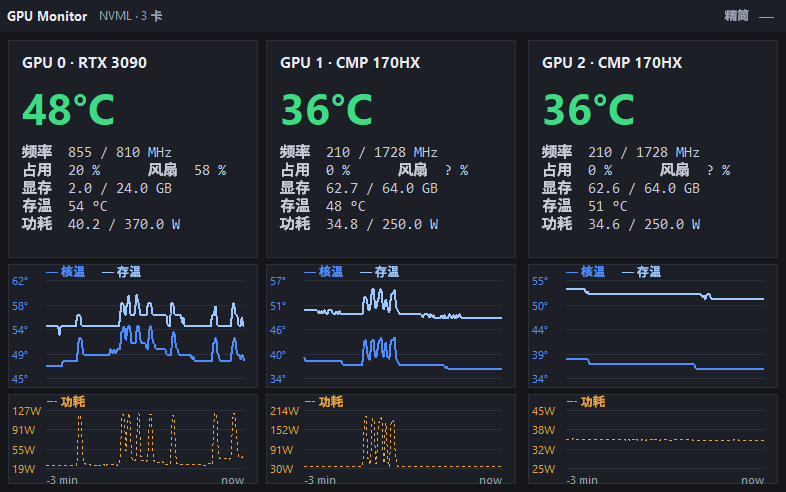
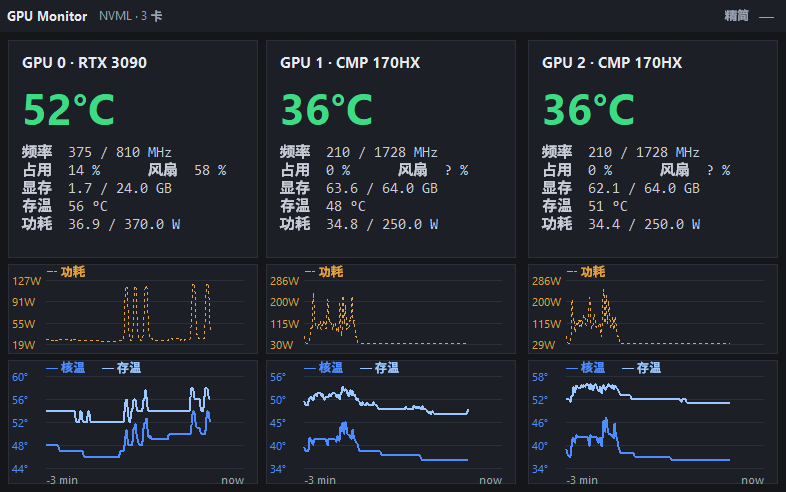
style: put the power chart above the temperature chart
Watts now lead the stack and degrees close it. Each chart keeps the height its
own content needs, so the taller one -- two series and four grid lines -- sits
at the bottom; the pair still fills the same 226px band and the window is still
492px tall.

Three places had to move together, because only the first of them is the order
itself: the pack order in build_cards, which canvas gets the time axis, and
which pad_b each one asks for. pad_b follows the position in the stack and not
the unit -- the chart that ends the pair at the bottom pays for "-3 min"/"now"
with GRAPH_PAD_B, the one above it reads straight down to it with
GRAPH_PAD_B_TOP. Getting that wrong would have left the time axis stranded
between the two charts.

_chart_frame also stops pretending it knows the height: the fallback was
GRAPH_H_TEMP for both canvases, and Tk reports a 1x1 canvas before the first
map, so it now reads the height the canvas was configured with.

Chart bands move to power 264..354 and temperatures 360..484. test-charts.py,
test-colors.py and shoot-docs.py all hard-code where the two charts sit, so
their assertions and boxes were re-pointed at the new order -- otherwise they
would keep passing by checking the wrong pixels. Verified with test-charts.py,
test-colors.py and test-geometry.py, a rebuilt GPU-Monitor.exe, and a fresh
docs/img/window-full.png shot from the running instance.

diff --git a/gpu-monitor-tray.py b/gpu-monitor-tray.py
@@ -644,13 +644,15 @@ FULL_COL_H = 444     # one full-mode column, header and padding excluded
 FULL_H = 492
 
 # Full mode splits its history band into two charts stacked one above the
-# other. Core temp and mem temp are both degrees and share one scale, so they
-# stay together in the upper chart; watts have nothing in common with degrees,
-# so power gets the lower chart and a grid of its own. The band used to be one
-# 170px canvas plus a legend frame outside it; the key now lives inside each
-# chart's own top strip, which is what pays for the second chart without the
-# window growing by a single pixel: 444 - 124 - 90 - (6 + 6) padding = 218
-# left for the text card, which asks for 205.
+# other: watts on top, degrees underneath. Core temp and mem temp are both
+# degrees and share one scale, so they stay together in one chart; watts have
+# nothing in common with degrees, so power gets its own chart and its own
+# grid. The band used to be one 170px canvas plus a legend frame outside it;
+# the key now lives inside each chart's own top strip, which is what pays for
+# the second chart without the window growing by a single pixel: 444 - 124 -
+# 90 - (6 + 6) padding = 218 left for the text card, which asks for 205.
+# Each chart keeps the height its own content needs, so the taller one (two
+# series, four grid lines) now sits at the bottom.
 GRAPH_H_TEMP = 124
 GRAPH_H_PW = 90
 GRAPH_GAP = 6        # dark strip between the two charts: what tells them apart
@@ -1288,17 +1290,18 @@ class MonitorApp:
 
             # Full mode is the only layout that draws history graphs; compact
             # and ultra never get past their own branches above. Two charts
-            # stacked in the space that used to hold one: degrees on top, watts
+            # stacked in the space that used to hold one: watts on top, degrees
             # underneath. No legend frame any more -- the key is drawn inside
             # each chart, which is where the height for the second one comes
             # from. They sit on the same x mapping, so they read as one
-            # timeline cut in two, not as two unrelated plots.
-            cv = tk.Canvas(col, bg=CARD, height=GRAPH_H_TEMP,
-                           highlightthickness=0)
-            cv.pack(fill="x", pady=(6, 0))
+            # timeline cut in two, not as two unrelated plots. The pack order
+            # is the on-screen order, so the power canvas has to come first.
             pcv = tk.Canvas(col, bg=CARD, height=GRAPH_H_PW,
                             highlightthickness=0)
-            pcv.pack(fill="x", pady=(GRAPH_GAP, 0))
+            pcv.pack(fill="x", pady=(6, 0))
+            cv = tk.Canvas(col, bg=CARD, height=GRAPH_H_TEMP,
+                           highlightthickness=0)
+            cv.pack(fill="x", pady=(GRAPH_GAP, 0))
             self.canvases.append(cv)
             self.pw_canvases.append(pcv)
 
@@ -1525,7 +1528,12 @@ class MonitorApp:
         with invented numbers would lie, so the labels keep away in that case.
         """
         w = int(cv.winfo_width() or FULL_CARD_W)
-        h = int(cv.winfo_height() or GRAPH_H_TEMP)
+        # Before the first map Tk reports a 1x1 canvas for this window, and a
+        # 1px height would put the axis numbers off the canvas. The canvas
+        # height is fixed by its own configure(), so the configured value is
+        # the truth whenever the widget has not been laid out yet.
+        h = int(cv.winfo_height() if cv.winfo_ismapped()
+                else cv.cget("height"))
         cv.create_rectangle(0, 0, w - 1, h - 1, outline=LINE)
         if not live:
             return w, h, None
@@ -1548,10 +1556,11 @@ class MonitorApp:
         # numbers printed on the very same grid lines -- so the two units were
         # only told apart by which side of the chart their numbers sat on. Core
         # temp and mem temp are degrees and share one scale, so they stay
-        # together in the upper chart; watts have nothing in common with
-        # degrees and get the lower chart plus a grid of their own. Both charts
-        # use the same x mapping, which is what makes them read as one timeline
-        # cut in two rather than as two unrelated plots.
+        # together in one chart; watts have nothing in common with degrees and
+        # get a chart plus a grid of their own. Power is drawn first and so
+        # sits on top, temperatures underneath. Both charts use the same x
+        # mapping, which is what makes them read as one timeline cut in two
+        # rather than as two unrelated plots.
         cv_t, cv_p = self.canvases[i], self.pw_canvases[i]
         if cv_t is None:
             return  # compact / ultra mode: no graph at all
@@ -1572,10 +1581,13 @@ class MonitorApp:
             mid = (phi + plo) / 2
             plo, phi = max(0, mid - 10), mid + 10
 
-        w_t, _, y_t = self._chart_frame(cv_t, tlo, thi, "°", GRAPH_TEMP,
-                                        4, GRAPH_PAD_B_TOP, bool(temp_all))
+        # pad_b follows the position in the stack, not the unit: the chart that
+        # ends the pair at the bottom pays for the time axis, the one above it
+        # reads straight down to it.
         w_p, h_p, y_p = self._chart_frame(cv_p, plo, phi, "W", PW_COLOR,
-                                          3, GRAPH_PAD_B, bool(pv))
+                                          3, GRAPH_PAD_B_TOP, bool(pv))
+        w_t, h_t, y_t = self._chart_frame(cv_t, tlo, thi, "°", GRAPH_TEMP,
+                                          4, GRAPH_PAD_B, bool(temp_all))
 
         # The key used to be a legend frame hanging under the graph. It now
         # sits inside each chart's own top strip: two charts no longer need two
@@ -1590,12 +1602,13 @@ class MonitorApp:
                          fill=PW_COLOR, font=("Segoe UI", 9), anchor="w")
 
         # One timeline, so the time axis is printed once, at the very bottom of
-        # the pair, and the upper chart simply reads down to it. The oldest
-        # sample is index 0 and the newest is the last one appended, so the
-        # left end is three minutes back and the right end is now.
-        cv_p.create_text(GRAPH_PAD_L, h_p - 5, text="-3 min", fill=DIM,
+        # the pair -- which is now the temperature chart -- and the chart above
+        # it simply reads down to it. The oldest sample is index 0 and the
+        # newest is the last one appended, so the left end is three minutes
+        # back and the right end is now.
+        cv_t.create_text(GRAPH_PAD_L, h_t - 5, text="-3 min", fill=DIM,
                          font=("Segoe UI", 8), anchor="w")
-        cv_p.create_text(w_p - GRAPH_PAD_R, h_p - 5, text="now", fill=DIM,
+        cv_t.create_text(w_t - GRAPH_PAD_R, h_t - 5, text="now", fill=DIM,
                          font=("Segoe UI", 8), anchor="e")
 
         # Close over the width rather than take it as an argument: a helper that

diff --git a/shoot-docs.py b/shoot-docs.py
@@ -3,8 +3,8 @@
 Finds the running GPU Monitor window, renders it with PrintWindow (no
 layered-window ghosting), checks that every chart band uses the shared inks and
 that none of the old per-GPU curve colours survives there. Each card now holds
-two charts stacked: the upper one carries the two temperature series, the lower
-one the power draw -- so each band is checked on its own, and the ink that must
+two charts stacked: the upper one carries the power draw, the lower one the two
+temperature series -- so each band is checked on its own, and the ink that must
 not appear there is as important as the ink that must.
 """
 import ctypes
@@ -22,12 +22,12 @@ UNIFIED = {"core blue": "#4f8cff", "mem pale blue": "#9cc8ff",
 OLD_CURVE_INKS = ["#3ddc84", "#ffb020", "#ff5555",
                   "#a8f0c0", "#ffd28a", "#ff9c9c"]
 
-# Where the two charts of each card land in the 492px window: the temperature
-# chart runs 264..388 and the power chart 394..484, both 250px wide, and the
+# Where the two charts of each card land in the 492px window: the power chart
+# runs 264..354 and the temperature chart 360..484, both 250px wide, and the
 # columns start at 8 / 266 / 528 (card width 250 plus its own padding).
 TEMP_X = [8, 266, 528]
-TEMP_BOX = (264, 388)
-PW_BOX = (394, 484)
+PW_BOX = (264, 354)
+TEMP_BOX = (360, 484)
 TEMP_WANT = {"core blue": 20, "mem pale blue": 20}
 PW_WANT = {"power amber": 20}
 # the other unit's ink must stay out of the chart it does not belong to
@@ -81,8 +81,8 @@ src.DeleteDC()
 win32gui.ReleaseDC(hwnd, dc)
 
 # Three fixed columns; the two chart bands of each card sit at the same place.
-BANDS = [(x, TEMP_BOX, "temps", TEMP_WANT, TEMP_OUT) for x in TEMP_X] \
-    + [(x, PW_BOX, "power", PW_WANT, PW_OUT) for x in TEMP_X]
+BANDS = [(x, PW_BOX, "power", PW_WANT, PW_OUT) for x in TEMP_X] \
+    + [(x, TEMP_BOX, "temps", TEMP_WANT, TEMP_OUT) for x in TEMP_X]
 failures = []
 for i, (x, box, kind, want, out) in enumerate(BANDS):
     card = i % len(TEMP_X)

diff --git a/test-charts.py b/test-charts.py
@@ -157,17 +157,18 @@ ok &= (w, h) == want
 for i in range(N):
     cv, pcv = app.canvases[i], app.pw_canvases[i]
     col = cv.master
-    print("[2] card %d: temp chart x=%d %dx%d y=%d..%d | power y=%d..%d | col y=%d..%d"
-          % (i, rootx(cv, root), cv.winfo_width(), cv.winfo_height(),
-             rooty(cv, root), rooty(cv, root) + cv.winfo_height(),
+    print("[2] card %d: power chart x=%d %dx%d y=%d..%d | temps y=%d..%d | col y=%d..%d"
+          % (i, rootx(pcv, root), pcv.winfo_width(), pcv.winfo_height(),
              rooty(pcv, root), rooty(pcv, root) + pcv.winfo_height(),
+             rooty(cv, root), rooty(cv, root) + cv.winfo_height(),
              rooty(col, root), rooty(col, root) + col.winfo_height()))
     ok &= (cv.winfo_width(), cv.winfo_height()) == (gmt.FULL_CARD_W,
                                                     gmt.GRAPH_H_TEMP)
     ok &= (pcv.winfo_width(), pcv.winfo_height()) == (gmt.FULL_CARD_W,
                                                      gmt.GRAPH_H_PW)
-    ok &= rooty(cv, root) + cv.winfo_height() + gmt.GRAPH_GAP == rooty(pcv, root)
-    ok &= (rooty(pcv, root) + pcv.winfo_height()
+    # watts lead the stack, temperatures close it
+    ok &= rooty(pcv, root) + pcv.winfo_height() + gmt.GRAPH_GAP == rooty(cv, root)
+    ok &= (rooty(cv, root) + cv.winfo_height()
            == rooty(col, root) + col.winfo_height())     # flush with the bottom
     ok &= cv.winfo_width() == pcv.winfo_width()          # one shared x mapping
 

diff --git a/test-colors.py b/test-colors.py
@@ -4,8 +4,8 @@ Every chart has to be drawn in #4f8cff (core temp) / #9cc8ff (mem temp) /
 #e8a23c (power) and must hold no trace of the old per-GPU palette
 (#3ddc84 / #ffb020 / #ff5555 and their pale mem-temp variants). The two charts
 stacked under each card are checked apart from each other: the upper one holds
-the temperatures and nothing amber, the lower one holds the watts and nothing
-blue, which is what proves they really are two separate charts.
+the watts and nothing blue, the lower one holds the temperatures and nothing
+amber, which is what proves they really are two separate charts.
 """
 import ctypes
 import importlib.util
@@ -155,7 +155,7 @@ for i in range(N):
         if exact_old:
             failures.append("card %d %s chart still draws in %s" %
                             (i, kind, sorted(exact_old)))
-        if kind == "temps" and (y + ch > app.pw_canvases[i].winfo_rooty() - rect[1]):
+        if kind == "power" and (y + ch > app.canvases[i].winfo_rooty() - rect[1]):
             failures.append("card %d charts overlap" % i)
 
 img.save("shot-full.png")

diff --git a/AGENTS.md b/AGENTS.md
@@ -221,12 +221,13 @@ GDDR6X（如 RTX 3090）的存温走 NVAPI。主要文件：
 
 ### 完全模式的曲线已拆成上下两张图
 
-- 布局：上图 `GRAPH_H_TEMP=124`（核温 + 存温，共用一个 °C 刻度），下图 `GRAPH_H_PW=90`（功耗，自己的 W 刻度），中间 `GRAPH_GAP=6` 的暗色间隔；两张图共用同一套 x 映射，所以读起来是「同一条时间轴切成两段」而不是两个无关的图。
+- 布局：上图 `GRAPH_H_PW=90`（功耗，自己的 W 刻度），下图 `GRAPH_H_TEMP=124`（核温 + 存温，共用一个 °C 刻度），中间 `GRAPH_GAP=6` 的暗色间隔；两张图共用同一套 x 映射，所以读起来是「同一条时间轴切成两段」而不是两个无关的图。
 - 窗口高度仍是 492（`FULL_H` 没动）：省出来的空间来自图例 —— 原来图例是图外的一个 Frame（21px + 3 pady），现在用 `cv.create_text` 画在每张图自己的顶部条带里（`GRAPH_PAD_T=16`、`GRAPH_KEY_Y=7`），两张图不再各自需要一条说明。
 - 卡片文字区实测需要 205px（name 26 + temp 65 + info 96 + 上下 pady 16 + 边框 2），列高 `FULL_COL_H=444` 减掉两张图和 padding 后给它 218px，**只剩 13px 余量**：以后再往完全模式里塞东西，先量 `card.winfo_reqheight()`，别凭感觉。
-- 像素坐标（相对窗口）：温度图 y=264..388，功耗图 y=394..484，三列 x = 8 / 266 / 528（列宽 250 + 各自 padding）。`shoot-docs.py` 的 BANDS 和 `test-charts.py` 都按这几个数断言，改尺寸必须一起改。
+- 像素坐标（相对窗口）：功耗图 y=264..354，温度图 y=360..484，三列 x = 8 / 266 / 528（列宽 250 + 各自 padding）。`shoot-docs.py` 的 BANDS 和 `test-charts.py` 都按这几个数断言，改尺寸或改上下顺序必须一起改。
+- 上下顺序是 `build_cards` 里两个 canvas 的 **pack 顺序**（先 pack 的在上面），而 `_chart_frame` 的 `pad_b` 跟着**位置**走而不是跟着单位走：排在最下面的那张图负责画 `-3 min` / `now`（`GRAPH_PAD_B=16`），上面那张只留 `GRAPH_PAD_B_TOP=10`。换顺序时三处（pack 顺序、pad_b 实参、时间轴文本画在哪个 canvas）必须一起换，否则时间轴会跑到两张图中间。高度始终跟着内容走（温度图 124 装两条曲线 + 4 条网格线），所以换序之后较高的图在下面。
 - 没数据时只画框、图例和时间轴，不画刻度数字（`_chart_frame(..., live=False)`），免得摆出没人测过的假温度。
-- 验证：`python test-charts.py`（几何 / 裁剪 / 空数据 / 另外两种布局），`python test-colors.py` 现在分开断言两张图的墨色**互斥** —— 温度图里不许有琥珀，功耗图里不许有蓝，这才证明它们真的是两张图。
+- 验证：`python test-charts.py`（几何 / 裁剪 / 空数据 / 另外两种布局），`python test-colors.py` 现在分开断言两张图的墨色**互斥** —— 温度图里不许有琥珀，功耗图里不许有蓝，这才证明它们真的是两张图（`test-charts.py` 第 [2] 步和 `test-colors.py` 的重叠断言都写死了“功耗在上、温度在下”，换序要改这两处）。
 - 重拍 docs：跑完 `python shoot-docs.py`（它验完各条带后存 `shot-live-full.png`）→ `cp shot-live-full.png docs/img/window-full.png`，两者同为 786x492。
 - 坑（已修，别再犯）：`px(j, w)` 被按 `px(w_t, j)` 调用，参数顺序颠倒 → 实际算成 `38 + (index - 52) * 250 / 179`，最旧的 52 个样本被抹到左边刻度数字上（就是「曲线和坐标重叠看不清」），其余样本也只铺到 215px 而不是 250。做法：把宽度闭包进 helper（`span = w_t - GRAPH_PAD_L - GRAPH_PAD_R` 再 `px(j)`），不给参数顺序颠倒的机会。
 - 时间轴方向：`hist` 是 `append`，所以 index 0 是最旧、最后一个才是最新 → 左端 `-3 min`、右端 `now`（这里写反过一次）。窗口没满 180 点之前最新读数还在中间，满 3 分钟才贴到右端，这是按索引铺 x 的必然行为，不是 bug。

diff --git a/README.en.md b/README.en.md
@@ -33,8 +33,8 @@ Always-on-top floating window · compact mode (one row per GPU, stays out of the
 ![Compact mode](docs/img/window-compact.png)
 
 Always-on-top floating window · full mode (one card per GPU + two stacked 3-minute charts: the upper
-one carries core temp and memory temp on one shared degree scale, the lower one the power draw on a
-watt scale of its own; every card shares one palette -- blue = core temp, pale blue = memory temp,
+one carries the power draw on a watt scale of its own, the lower one core temp and memory temp on
+one shared degree scale; every card shares one palette -- blue = core temp, pale blue = memory temp,
 dashed amber = power -- so the cards are told apart by the card itself rather than by colour):
 
 ![Full mode](docs/img/window-full.png)

diff --git a/README.md b/README.md
@@ -28,7 +28,7 @@
 
 ![精简模式](docs/img/window-compact.png)
 
-悬浮置顶小窗 · 完全模式（每卡一张卡片 + 上下两张 3 分钟曲线图：上图核温与存温共用一个温度刻度，下图功耗单独一个瓦特刻度；所有卡共用同一套曲线颜色 —— 蓝 = 核温、浅蓝 = 存温、琥珀虚线 = 功耗，靠卡片本身而不是颜色区分显卡）：
+悬浮置顶小窗 · 完全模式（每卡一张卡片 + 上下两张 3 分钟曲线图：上图功耗单独一个瓦特刻度，下图核温与存温共用一个温度刻度；所有卡共用同一套曲线颜色 —— 蓝 = 核温、浅蓝 = 存温、琥珀虚线 = 功耗，靠卡片本身而不是颜色区分显卡）：
 
 ![完全模式](docs/img/window-full.png)
 
